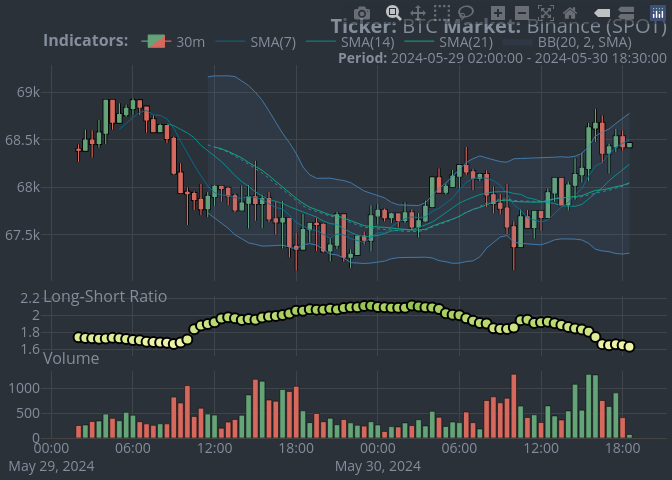
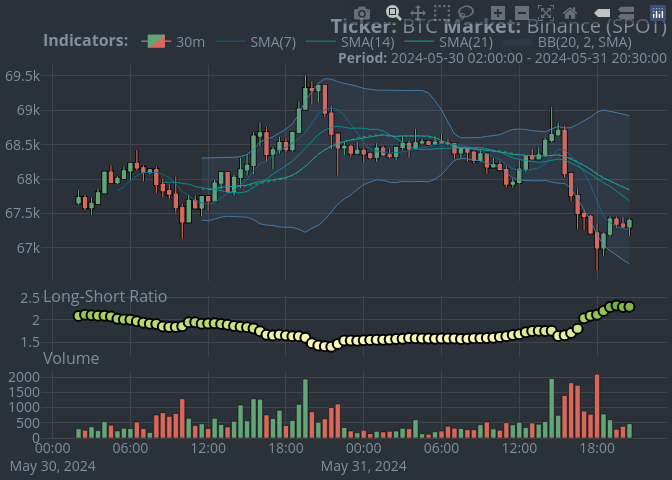
CRAN Submission
This commit is the submitted version to CRAN. See https://github.com/serkor1/cryptoQuotes/issues/11 for a full list of tasks.

Please refer to the NEWS.md for a full list of changes.

diff --git a/README.md b/README.md
@@ -10,7 +10,7 @@ status](https://www.r-pkg.org/badges/version/cryptoQuotes)](https://CRAN.R-proje
 [![CRAN RStudio mirror
 downloads](https://cranlogs.r-pkg.org/badges/last-month/cryptoQuotes?color=blue)](https://r-pkg.org/pkg/cryptoQuotes)
 [![R-CMD-check](https://github.com/serkor1/cryptoQuotes/actions/workflows/R-CMD-check.yaml/badge.svg)](https://github.com/serkor1/cryptoQuotes/actions/workflows/R-CMD-check.yaml)
-[![codecov](https://codecov.io/gh/serkor1/cryptoQuotes/graph/badge.svg?token=D7NF1BPVL5)](https://codecov.io/gh/serkor1/cryptoQuotes)
+[![codecov](https://codecov.io/gh/serkor1/cryptoQuotes/graph/badge.svg?token=D7NF1BPVL5)](https://app.codecov.io/gh/serkor1/cryptoQuotes)
 [![Lifecycle:
 stable](https://img.shields.io/badge/lifecycle-stable-brightgreen.svg)](https://lifecycle.r-lib.org/articles/stages.html#stable)
 ![GitHub last commit
@@ -279,122 +279,122 @@ volume
 <tbody>
 <tr>
 <td style="text-align:left;">
-2024-05-30 16:00:00
+2024-05-31 18:00:00
 </td>
 <td style="text-align:center;">
-68623.99
+67215.58
 </td>
 <td style="text-align:center;">
-68826.31
+67352.41
 </td>
 <td style="text-align:center;">
-68472.35
+66670
 </td>
 <td style="text-align:center;">
-68671.02
+67000.01
 </td>
 <td style="text-align:left;">
-1274.59558
+2093.77494
 </td>
 </tr>
 <tr>
 <td style="text-align:left;">
-2024-05-30 16:30:00
+2024-05-31 18:30:00
 </td>
 <td style="text-align:center;">
-68671.02
+67000.01
 </td>
 <td style="text-align:center;">
-68756.41
+67221.53
 </td>
 <td style="text-align:center;">
-68256.29
+66876.8
 </td>
 <td style="text-align:center;">
-68359.6
+67200.01
 </td>
 <td style="text-align:left;">
-758.51827
+788.25693
 </td>
 </tr>
 <tr>
 <td style="text-align:left;">
-2024-05-30 17:00:00
+2024-05-31 19:00:00
 </td>
 <td style="text-align:center;">
-68359.6
+67200.01
 </td>
 <td style="text-align:center;">
-68460.84
+67459.66
 </td>
 <td style="text-align:center;">
-68144
+67160.3
 </td>
 <td style="text-align:center;">
-68424
+67417.98
 </td>
 <td style="text-align:left;">
-638.09219
+598.68095
 </td>
 </tr>
 <tr>
 <td style="text-align:left;">
-2024-05-30 17:30:00
+2024-05-31 19:30:00
 </td>
 <td style="text-align:center;">
-68424.01
+67417.98
 </td>
 <td style="text-align:center;">
-68612
+67455.93
 </td>
 <td style="text-align:center;">
-68367.65
+67287.97
 </td>
 <td style="text-align:center;">
-68530.76
+67342.77
 </td>
 <td style="text-align:left;">
-911.26349
+287.26257
 </td>
 </tr>
 <tr>
 <td style="text-align:left;">
-2024-05-30 18:00:00
+2024-05-31 20:00:00
 </td>
 <td style="text-align:center;">
-68530.77
+67342.77
 </td>
 <td style="text-align:center;">
-68600
+67444.47
 </td>
 <td style="text-align:center;">
-68384
+67288.2
 </td>
 <td style="text-align:center;">
-68427.18
+67305.5
 </td>
 <td style="text-align:left;">
-411.48792
+383.04002
 </td>
 </tr>
 <tr>
 <td style="text-align:left;">
-2024-05-30 18:30:00
+2024-05-31 20:30:00
 </td>
 <td style="text-align:center;">
-68427.19
+67305.5
 </td>
 <td style="text-align:center;">
-68460
+67427.68
 </td>
 <td style="text-align:center;">
-68417.81
+67170
 </td>
 <td style="text-align:center;">
-68459.99
+67400
 </td>
 <td style="text-align:left;">
-71.38386
+468.98276
 </td>
 </tr>
 </tbody>
@@ -562,86 +562,86 @@ ls_ratio
 <tbody>
 <tr>
 <td style="text-align:left;">
-2024-05-30 16:00:00
+2024-05-31 18:00:00
 </td>
 <td style="text-align:center;">
-0.636
+0.679
 </td>
 <td style="text-align:center;">
-0.364
+0.321
 </td>
 <td style="text-align:center;">
-1.746
+2.114
 </td>
 </tr>
 <tr>
 <td style="text-align:left;">
-2024-05-30 16:30:00
+2024-05-31 18:30:00
 </td>
 <td style="text-align:center;">
-0.624
+0.687
 </td>
 <td style="text-align:center;">
-0.376
+0.313
 </td>
 <td style="text-align:center;">
-1.662
+2.199
 </td>
 </tr>
 <tr>
 <td style="text-align:left;">
-2024-05-30 17:00:00
+2024-05-31 19:00:00
 </td>
 <td style="text-align:center;">
-0.623
+0.696
 </td>
 <td style="text-align:center;">
-0.378
+0.304
 </td>
 <td style="text-align:center;">
-1.649
+2.289
 </td>
 </tr>
 <tr>
 <td style="text-align:left;">
-2024-05-30 17:30:00
+2024-05-31 19:30:00
 </td>
 <td style="text-align:center;">
-0.624
+0.699
 </td>
 <td style="text-align:center;">
-0.376
+0.301
 </td>
 <td style="text-align:center;">
-1.662
+2.323
 </td>
 </tr>
 <tr>
 <td style="text-align:left;">
-2024-05-30 18:00:00
+2024-05-31 20:00:00
 </td>
 <td style="text-align:center;">
-0.623
+0.696
 </td>
 <td style="text-align:center;">
-0.377
+0.304
 </td>
 <td style="text-align:center;">
-1.65
+2.288
 </td>
 </tr>
 <tr>
 <td style="text-align:left;">
-2024-05-30 18:30:00
+2024-05-31 20:30:00
 </td>
 <td style="text-align:center;">
-0.62
+0.696
 </td>
 <td style="text-align:center;">
-0.38
+0.304
 </td>
 <td style="text-align:center;">
-1.632
+2.293
 </td>
 </tr>
 </tbody>

diff --git a/cran-comments.md b/cran-comments.md
@@ -2,22 +2,10 @@
 
 0 errors ✔ | 0 warnings ✔ | 1 note ✖
 
-### The note
-
-```
-  The Title field should be in title case. Current version is:
-  'A Streamlined Access to Cryptocurrency OHLC-V Market Data and Sentiment Indicators'
-  In title case that is:
-  'A Streamlined Access to Cryptocurrency OHLC-v Market Data and Sentiment Indicators'
-```
-
-This `note` is related to `OHLC-V`, and since `OHLC-V` is an accepted shorthand for Open, High, Low, Close and Volume I believe this `note` should
-be ignored.
-
-## Resubmission
-
-This is a resubmission. In this version I have updated many elements in the library, but
-most importantly the unittests are being conducted in a manner that is robust to timing
-errors.
-
-
+❯ checking installed package size ... NOTE
+    installed size is 13.1Mb
+    sub-directories of 1Mb or more:
+      doc  11.9Mb
+      
+This is beyond my technical knowledge, but here is a related SO-post:
+https://stackoverflow.com/questions/38639266/r-cmd-check-unusual-checking-installed-package-size-note

diff --git a/NEWS.md b/NEWS.md
@@ -1,4 +1,6 @@
 
+<!-- NEWS.md is generated from NEWS.Rmd. Please edit that file -->
+
 # cryptoQuotes 1.3.1
 
 ## General
@@ -70,12 +72,12 @@ tail(
 ```
 
     #>                     open_interest
-    #> 2024-05-31 14:00:00      3018.442
     #> 2024-05-31 15:00:00      3013.342
     #> 2024-05-31 16:00:00      2957.343
     #> 2024-05-31 17:00:00      2960.819
     #> 2024-05-31 18:00:00      2954.668
-    #> 2024-05-31 19:00:00      2981.381
+    #> 2024-05-31 19:00:00      2983.686
+    #> 2024-05-31 20:00:00      2996.449
 
 </details>
 
